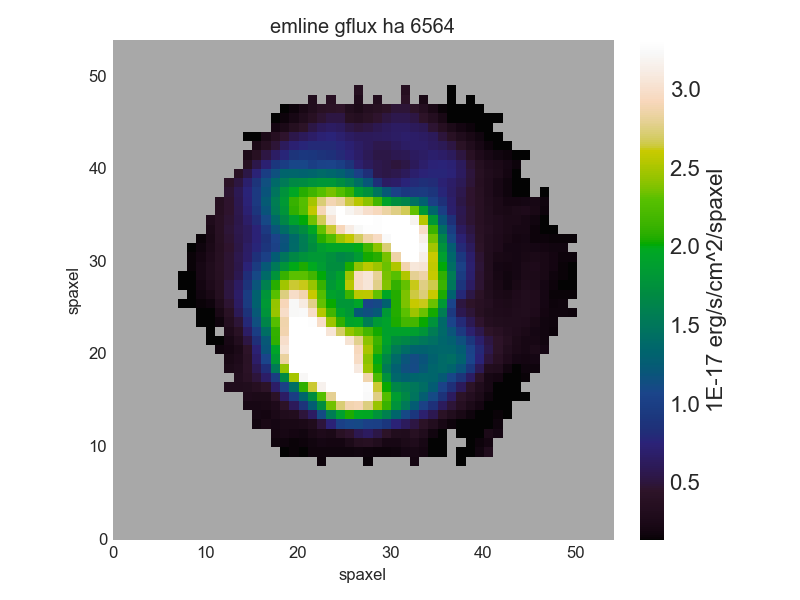
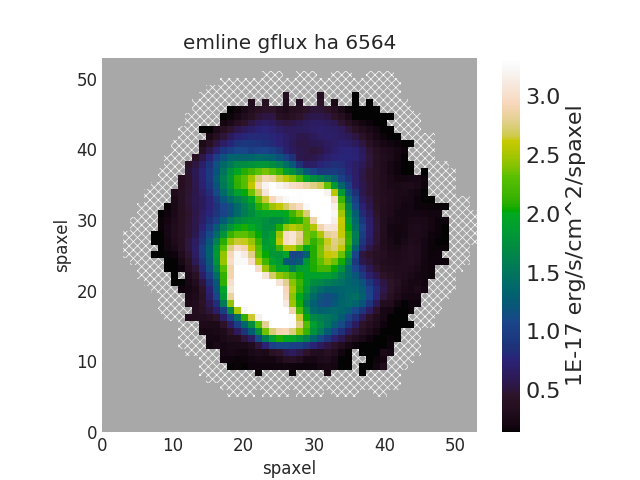
fixes some plotting API aspects of lean tutorial

diff --git a/docs/sphinx/tutorials/lean-tutorial.rst b/docs/sphinx/tutorials/lean-tutorial.rst
@@ -1,20 +1,15 @@
 .. _marvin-lean-tutorial:
 
-.. ipython:: python
-   :suppress:
-
-   import matplotlib
-   matplotlib.style.use('seaborn-darkgrid')
-   from marvin import config
-   config.mode = 'remote'
-
 
 Lean Tutorial
 =============
 
 This tutorial runs through all of the steps for doing a project with Marvin from start-to-finish with no extra fat.
 
-**Project**: Calculate the [NII]/Halpha ratio for star-forming spaxels in galaxies with stellar mass between :math:`10^{10}` and :math:`10^{11}`.
+Project Description
+-------------------
+
+**Calculate the [NII]/H**\ :math:`\alpha` **ratio for star-forming spaxels in galaxies with stellar mass between** :math:`10^{10}` **and** :math:`10^{11}` **.**
 
 
 Sample Selection
@@ -31,9 +26,9 @@ Create the query and run it (limit to only 3 results for demo purposes):
     from marvin.tools.query import doQuery
     q, r = doQuery(searchfilter='nsa.sersic_logmass >= 10 and nsa.sersic_logmass <= 11', limit=3)
 
-**Tip** see :ref:`Example Queries <marvin-query-examples>` and :ref:`Marvin Query Syntax Tutorial <marvin-sqlboolean>` for help with designing search filters.
+**Tip**: see :ref:`Example Queries <marvin-query-examples>` and :ref:`Marvin Query Syntax Tutorial <marvin-sqlboolean>` for help with designing search filters.
 
-View the :ref:`marvin-results`:
+View the :class:`~marvin.tools.query.results.Results`:
 
 
 .. code-block:: python
@@ -45,7 +40,7 @@ View the :ref:`marvin-results`:
     # 1  1-24482   8626  8626-12703  12703       10.706346
     # 2  1-24476   7990  7990-12705  12705       10.503103
 
-Convert to :ref:`marvin-tools-maps` objects:
+Convert into :ref:`marvin-tools-maps` objects:
 
 .. code-block:: python
 
@@ -54,10 +49,10 @@ Convert to :ref:`marvin-tools-maps` objects:
     galaxies = r.objects
 
 
-Get Maps
---------
+Get the Maps
+------------
 
-Alternatively, maybe we already knew our galaxy IDs, which we can use to create :ref:`marvin-tools-maps` objects:
+Alternatively, maybe we already knew our galaxy IDs, which we can use to create :class:`~marvin.tools.maps.Maps` objects:
 
 .. code-block:: python
 
@@ -66,18 +61,17 @@ Alternatively, maybe we already knew our galaxy IDs, which we can use to create 
     galaxies = [Maps(mangaid=mangaid) for mangaid in mangaids]
 
 
-Get the Halpha maps:
+Get the H\ :math:`\alpha` maps:
 
 .. code-block:: python
 
     haflux_maps = [galaxy['emline_gflux_ha_6564'] for galaxy in galaxies]
 
 
-Plot Halpha map of the second galaxy:
+Plot H\ :math:`\alpha` map of the second galaxy:
 
 .. code-block:: python
 
-    import matplotlib.pyplot as plt
     haflux_map = haflux_maps[1]
     fig, ax = haflux_map.plot()
 
@@ -94,7 +88,7 @@ However, we can also plot the spectrum and model fits in Python. First, we can f
 Get Spectrum and Model Fit
 --------------------------
 
-Then we can create a :ref:`marvin-tools-spaxel` object from the :ref:`marvin-tools-map` object and retrieve the model fit.
+Then we can create a :class:`~marvin.tools.spaxel.Spaxel` object by accessing the parent :class:`~marvin.tools.maps.Maps` object from the :class:`~marvin.tools.map.Map` object (``haflux_map.maps``) and retrieve the model fit.
 
 .. code-block:: python
 
@@ -107,6 +101,7 @@ Now let's plot the spectrum and model fit:
 .. code-block:: python
 
     # Set matplotlib style sheet. Undo with matplotib.rcdefaults().
+    import matplotlib.pyplot as plt
     plt.style.use('seaborn-darkgrid')
 
     ax = spax.spectrum.plot()
@@ -116,7 +111,7 @@ Now let's plot the spectrum and model fit:
 
 .. image:: ../_static/spec_7992-6101.png
 
-Clearly something went horribly horribly wrong in the fit. In fact, the DAP did not even try to fit a emission line component to the Halpha and [NII] lines. This is unfortunate, but let's press on.
+Clearly something went horribly horribly wrong in the fit. In fact, the DAP did not even try to fit a emission line component to the H\ :math:`\alpha` and [NII] lines. This is unfortunate, but let's press on.
 
 
 
@@ -131,7 +126,7 @@ The :meth:`~marvin.tools.maps.Maps.get_bpt` returns masks for spaxels of differe
 
 .. image:: ../_static/bpt_7992-6101.png
 
-For a detailed description see :ref:`marvin-bpt`.
+For a detailed description see :doc:`../tools/bpt`.
 
 
 Select Star-forming Spaxels
@@ -143,48 +138,34 @@ Select the star-forming spaxels that are in the star-forming region of each diag
 
     sf = masks['sf']['global']
 
-
-Create the image to display and the background using the star-forming mask:
-
-.. code-block:: python
-
-    import numpy as np
-    image = np.ma.array(haflux_map.value, mask=~sf)
-    mask_nodata = np.ma.array(np.ones(haflux_map.value.shape), mask=sf)
-
-If we wanted to do additional calculations instead of creating a plot, this masked array would also be the object on which we would perform operations.
-
-
-Plot Star-forming Spaxels
--------------------------
-
-Let's set the background to gray:
+Return the complement of the BPT global star-forming mask (``True`` means star-forming) using ``~`` and set bit 30 (DONOTUSE) for non-star-forming spaxels.
 
 .. code-block:: python
 
-    from marvin.utils.plot import colorbar
-    A8A8A8 = colorbar.one_color_cmap(color='#A8A8A8')
+    mask_non_sf = ~sf * 2**30
 
 
-Plot the star-forming spaxels:
+Do a bitwise OR between the DAP mask and the non-star-forming mask:
 
 .. code-block:: python
 
-    fig, ax = plt.subplots()
-    ax.imshow(mask_nodata, cmap=A8A8A8, origin='lower', zorder=1);
-    p = ax.imshow(image, cmap='viridis', origin='lower', zorder=10)
-    ax.set_xlabel('spaxel');
-    ax.set_ylabel('spaxel');
-    cb = fig.colorbar(p)
-    cb.set_label('flux [{}]'.format(haflux_map.unit))
+    mask = haflux_map.mask | mask_non_sf
+
+
+Plot with our new mask:
+
+.. code-block:: python
+
+    haflux_map.plot(mask=mask)
 
 .. image:: ../_static/haflux_sf_7992-6101.png
 
 
-Plot [NII]/Halpha Flux Ratio for Star-forming Spaxels
+
+Plot [NII]/H\ :math:`\alpha` Flux Ratio for Star-forming Spaxels
 -----------------------------------------------------
 
-Calculate [NII]6585/Halpha flux ratio:
+Calculate [NII]6585/H\ :math:`\alpha` flux ratio:
 
 .. code-block:: python
 
@@ -192,26 +173,20 @@ Calculate [NII]6585/Halpha flux ratio:
     nii_ha = maps_7992_6101.getMapRatio(property_name='emline_gflux', channel_1='nii_6585', channel_2='ha_6564')
 
 
-Plot the [NII]/Halpha flux ratio for the star-forming spaxels:
+Plot the [NII]/H\ :math:`\alpha` flux ratio for the star-forming spaxels:
 
 .. code-block:: python
 
-    fig, ax = plt.subplots()
-    ax.imshow(mask_nodata, cmap=A8A8A8, origin='lower', zorder=1);
-    ax.set_xlabel('spaxel');
-    ax.set_ylabel('spaxel');
-    p = ax.imshow(np.ma.array(nii_ha.value, mask=~sf), origin='lower', cmap='viridis', zorder=10)
-    cb = fig.colorbar(p)
-    cb.set_label('[NII]6585 / Halpha flux ratio')
+    nii_ha.plot(mask=mask, cblabel='[NII]6585 / Halpha flux ratio')
 
 .. image:: ../_static/niiha_sf_7992-6101.png
 
 
 Next Steps
 ----------
-- :ref:`Download Data <marvin-download-objects>` (avoid repeating the same remote API calls every time you run your script)
-- :ref:`Jupyter Notebook Tutorials <marvin-jupyter>`
-- :ref:`marvin-first-steps` (more general introduction to Marvin)
 
+- :doc:`../first-steps` (more general introduction to Marvin)
+- :doc:`plotting`
+- :doc:`Download Data <../core/downloads>` (avoid repeating the same remote API calls every time you run your script)
 
 |

diff --git a/docs/sphinx/utils/plot-map.rst b/docs/sphinx/utils/plot-map.rst
@@ -8,7 +8,7 @@ Plot (:mod:`marvin.utils.plot.map`)
 
 Introduction
 ------------
-:mod:`marvin.utils.plot.map` contains utility functions for plotting Marvin maps.  The main function in this module is :func:`~marvin.utils.plot.map.plot`, which is thinly wrapped by the :meth:`~marvin.tools.map.plot` method in the :mod:`~marvin.tools.map` class for convenience.
+:mod:`marvin.utils.plot.map` contains utility functions for plotting Marvin maps.  The main function in this module is :func:`~marvin.utils.plot.map.plot`, which is thinly wrapped by the :meth:`~marvin.tools.map.plot` method in the :class:`~marvin.tools.map.Map` class for convenience.
 
 
 .. _marvin-utils-plot-map-getting-started:
@@ -43,7 +43,7 @@ A :attr:`~marvin.utils.plot.map.plot.dapmap` object is not even necessary for :m
     fig, ax = mapplot.plot(value=np.random.random((34, 34)), mask=ha.mask)
 
 
-This flexibilty is especially useful for passing in a custom mask, such as one created with the :meth:`~marvin.tools.maps.Maps.get_bpt` method. For more explanation of the mask manipulation in this specific example, see :ref:`marvin-plotting-map-starforming`.
+This flexibilty is especially useful for passing in a custom mask, such as one created with the :meth:`~marvin.tools.maps.Maps.get_bpt` method. For more explanation of the mask manipulation in this specific example, see the :ref:`plotting tutorial <marvin-plotting-map-starforming>`.
 
 .. code-block:: python
 
@@ -97,6 +97,7 @@ Plotting Tutorial
   * :ref:`marvin-plotting-multipanel-multiple`
   * :ref:`marvin-plotting-custom-map-axes`
   * :ref:`marvin-plotting-map-starforming`
+  * :ref:`Plot [NII]/Halpha Flux Ratio Map of Star-forming Spaxels <marvin-plotting-niiha-map-starforming>`
 
 
 Default Plotting Parameters

diff --git a/docs/sphinx/tutorials/plotting.rst b/docs/sphinx/tutorials/plotting.rst
@@ -195,8 +195,8 @@ Custom Spectrum and Model Fit
 
 .. _marvin-plotting-map-starforming:
 
-Plot Halpha Map of Star-forming Spaxels
----------------------------------------
+Plot H\ :math:`\alpha` Map of Star-forming Spaxels
+--------------------------------------------------
 
 .. code-block:: python
 
@@ -215,5 +215,27 @@ Plot Halpha Map of Star-forming Spaxels
     ha.plot(mask=mask)
 
 .. image:: ../_static/map_bpt_mask.png
+
+
+.. _marvin-plotting-niiha-map-starforming:
+
+Plot [NII]/H\ :math:`\alpha` Flux Ratio Map of Star-forming Spaxels
+-------------------------------------------------------------------
+
+.. code-block:: python
+
+    from marvin.tools.maps import Maps
+    maps = Maps(plateifu='8485-1901')
+    nii_ha = maps.getMapRatio(property_name='emline_gflux', channel_1='nii_6585', channel_2='ha_6564')
+
+    # Mask out non-star-forming spaxels
+    masks, __ = maps.get_bpt(show_plot=False)
+    mask_non_sf = ~masks['sf']['global'] * 2**30
+    mask = nii_ha.mask | mask_non_sf
+    
+    nii_ha.plot(mask=mask, cblabel='[NII]6585 / Halpha flux ratio')
+
+.. image:: ../_static/niiha_bpt_mask.png
+
 
 |

diff --git a/docs/sphinx/tutorials.rst b/docs/sphinx/tutorials.rst
@@ -8,12 +8,12 @@ Tutorials
    :titlesonly:
    :maxdepth: 1
 
+   tutorials/lean-tutorial
+   tutorials/plotting
    Example Queries <tutorials/query-examples>
    tutorials/query-practice
    tutorials/boolean-search-tutorial
    tutorials/jupyter-notebooks
-   tutorials/lean-tutorial
-   tutorials/plotting
-   tutorials/bitmasks
+   .. tutorials/bitmasks
 
 |

diff --git a/docs/sphinx/tools/map.rst b/docs/sphinx/tools/map.rst
@@ -175,6 +175,8 @@ Map Plotting
   * :ref:`marvin-plotting-multipanel-multiple`
   * :ref:`marvin-plotting-custom-map-axes`
   * :ref:`marvin-plotting-map-starforming`
+  * :ref:`Plot [NII]/Halpha Flux Ratio Map of Star-forming Spaxels<marvin-plotting-niiha-map-starforming>`
+
 
 Bitmasks
 ````````
